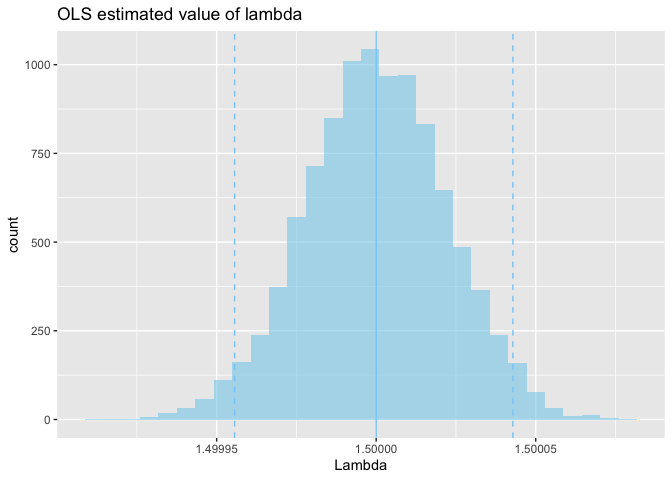
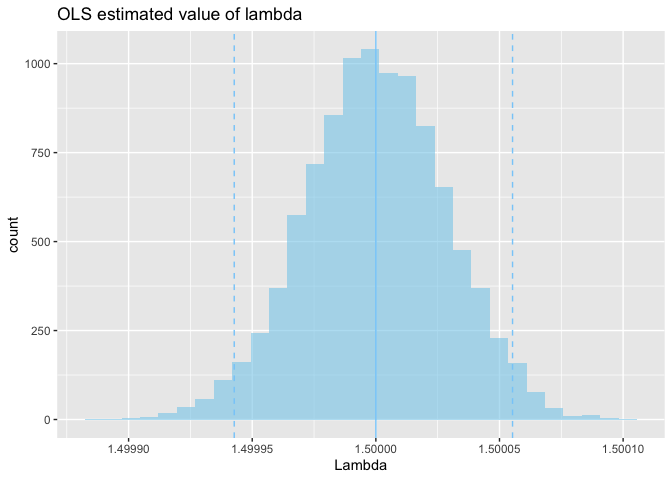
change firm number

diff --git a/Demand_Estimation.md b/Demand_Estimation.md
@@ -1,7 +1,7 @@
 Demand Estimation: Cournot Model
 ================
 Tomoya Ozawa
-2021/05/13
+2021/05/14
 
 ## Data Generating Process
 
@@ -48,7 +48,7 @@ p_t = \\frac{1}{N_t + 1}\\left( \\frac{\\kappa + \\mu X_t + \\epsilon_t}{\\lambd
 ``` r
 set.seed(123)
 t <- 120
-N <- 30
+N <- 3
 
 # Exogenous variables
 X <- runif(t, min = 300, max = 600)
@@ -84,13 +84,13 @@ df <- data.frame(time = 1:t,
 head(df)
 ```
 
-    ##   time quantity    price     cost        X        W
-    ## 1    1 1521.383 276.1063 242.2978 386.2733 49.43680
-    ## 2    2 2305.216 247.1781 195.9511 536.4915 39.59462
-    ## 3    3 1732.628 252.6214 214.1186 422.6931 39.23160
-    ## 4    4 2480.397 229.7120 174.5921 564.9052 36.59303
-    ## 5    5 2537.604 263.0240 206.6328 582.1402 41.08467
-    ## 6    6 1050.320 342.9969 319.6565 313.6669 59.52658
+    ##   time  quantity    price     cost        X        W
+    ## 1    1 1179.0720 504.3138 242.2978 386.2733 49.43680
+    ## 2    2 1786.5422 592.9605 195.9511 536.4915 39.59462
+    ## 3    3 1342.7864 512.5156 214.1186 422.6931 39.23160
+    ## 4    4 1922.3078 601.7716 174.5921 564.9052 36.59303
+    ## 5    5 1966.6427 643.6645 206.6328 582.1402 41.08467
+    ## 6    6  813.9979 500.5449 319.6565 313.6669 59.52658
 
 ``` r
 df_param <- data.frame(true = c(kappa, lambda, mu, xi,omega))
@@ -120,19 +120,19 @@ summary(out_ols)
     ## 
     ## Residuals:
     ##     Min      1Q  Median      3Q     Max 
-    ## -19.601  -7.129  -1.364   6.021  32.933 
+    ## -19.690  -7.115  -1.395   5.877  33.106 
     ## 
     ## Coefficients:
     ##             Estimate Std. Error t value Pr(>|t|)    
-    ## (Intercept) -0.04492    7.28429  -0.006    0.995    
-    ## price       -1.49894    0.02231 -67.176   <2e-16 ***
-    ## X            5.00551    0.01065 469.917   <2e-16 ***
+    ## (Intercept) -2.77300    7.27035  -0.381    0.704    
+    ## price       -1.48413    0.02872 -51.680   <2e-16 ***
+    ## X            4.99292    0.02521 198.066   <2e-16 ***
     ## ---
     ## Signif. codes:  0 '***' 0.001 '**' 0.01 '*' 0.05 '.' 0.1 ' ' 1
     ## 
-    ## Residual standard error: 9.907 on 117 degrees of freedom
-    ## Multiple R-squared:  0.9995, Adjusted R-squared:  0.9995 
-    ## F-statistic: 1.104e+05 on 2 and 117 DF,  p-value: < 2.2e-16
+    ## Residual standard error: 9.894 on 117 degrees of freedom
+    ## Multiple R-squared:  0.9991, Adjusted R-squared:  0.9991 
+    ## F-statistic: 6.649e+04 on 2 and 117 DF,  p-value: < 2.2e-16
 
 ``` r
 cost_ols <- ((N + 1)*df$price)/N - (out_ols$coefficients[1] + out_ols$coefficients[3]*df$X)/(-out_ols$coefficients[2]*N)
@@ -148,18 +148,18 @@ summary(out_cost_ols)
     ## 
     ## Residuals:
     ##      Min       1Q   Median       3Q      Max 
-    ## -22.9223  -5.9707   0.1905   6.9518  22.4246 
+    ## -22.3412  -7.1373   0.8252   6.8454  21.0750 
     ## 
     ## Coefficients:
     ##             Estimate Std. Error t value Pr(>|t|)    
-    ## (Intercept)  -7.1847     5.4383  -1.321    0.189    
-    ## W             5.2455     0.1194  43.935   <2e-16 ***
+    ## (Intercept) -11.3698     5.4530  -2.085   0.0392 *  
+    ## W             5.2629     0.1197  43.962   <2e-16 ***
     ## ---
     ## Signif. codes:  0 '***' 0.001 '**' 0.01 '*' 0.05 '.' 0.1 ' ' 1
     ## 
-    ## Residual standard error: 10.19 on 118 degrees of freedom
-    ## Multiple R-squared:  0.9424, Adjusted R-squared:  0.9419 
-    ## F-statistic:  1930 on 1 and 118 DF,  p-value: < 2.2e-16
+    ## Residual standard error: 10.22 on 118 degrees of freedom
+    ## Multiple R-squared:  0.9425, Adjusted R-squared:  0.942 
+    ## F-statistic:  1933 on 1 and 118 DF,  p-value: < 2.2e-16
 
 ### IV
 
@@ -175,19 +175,19 @@ summary(out_first)
     ## 
     ## Residuals:
     ##      Min       1Q   Median       3Q      Max 
-    ## -22.6719  -6.5736   0.2876   6.7779  21.4697 
+    ## -16.5140  -5.2438   0.1417   5.7305  15.4698 
     ## 
     ## Coefficients:
     ##             Estimate Std. Error t value Pr(>|t|)    
-    ## (Intercept) -2.08689    7.41175  -0.282    0.779    
-    ## W            5.06739    0.11600  43.684  < 2e-16 ***
-    ## X            0.09787    0.01056   9.268 1.16e-15 ***
+    ## (Intercept) -1.92315    5.70591  -0.337    0.737    
+    ## W            3.93421    0.08930  44.054   <2e-16 ***
+    ## X            0.82674    0.00813 101.694   <2e-16 ***
     ## ---
     ## Signif. codes:  0 '***' 0.001 '**' 0.01 '*' 0.05 '.' 0.1 ' ' 1
     ## 
-    ## Residual standard error: 9.866 on 117 degrees of freedom
-    ## Multiple R-squared:  0.9431, Adjusted R-squared:  0.9422 
-    ## F-statistic: 970.3 on 2 and 117 DF,  p-value: < 2.2e-16
+    ## Residual standard error: 7.595 on 117 degrees of freedom
+    ## Multiple R-squared:   0.99,  Adjusted R-squared:  0.9899 
+    ## F-statistic:  5811 on 2 and 117 DF,  p-value: < 2.2e-16
 
 ``` r
 library(AER)
@@ -201,19 +201,19 @@ summary(out_iv)
     ## 
     ## Residuals:
     ##     Min      1Q  Median      3Q     Max 
-    ## -19.699  -7.167  -1.298   6.023  33.115 
+    ## -19.664  -7.154  -1.295   6.012  33.056 
     ## 
     ## Coefficients:
     ##             Estimate Std. Error t value Pr(>|t|)    
-    ## (Intercept) -2.01951    7.41079  -0.273    0.786    
-    ## price       -1.49080    0.02300 -64.815   <2e-16 ***
-    ## X            5.00503    0.01066 469.379   <2e-16 ***
+    ## (Intercept) -2.01592    7.39088  -0.273    0.786    
+    ## price       -1.48816    0.02957 -50.321   <2e-16 ***
+    ## X            4.99613    0.02583 193.427   <2e-16 ***
     ## ---
     ## Signif. codes:  0 '***' 0.001 '**' 0.01 '*' 0.05 '.' 0.1 ' ' 1
     ## 
-    ## Residual standard error: 9.913 on 117 degrees of freedom
-    ## Multiple R-Squared: 0.9995,  Adjusted R-squared: 0.9995 
-    ## Wald test: 1.102e+05 on 2 and 117 DF,  p-value: < 2.2e-16
+    ## Residual standard error: 9.895 on 117 degrees of freedom
+    ## Multiple R-Squared: 0.9991,  Adjusted R-squared: 0.9991 
+    ## Wald test: 6.641e+04 on 2 and 117 DF,  p-value: < 2.2e-16
 
 ``` r
 cost_iv <- ((N + 1)*df$price)/N - (out_iv$coefficients[1] + out_iv$coefficients[3]*df$X)/(-out_iv$coefficients[2]*N)
@@ -228,19 +228,19 @@ summary(out_cost_iv)
     ## lm(formula = cost_iv ~ W, data = df)
     ## 
     ## Residuals:
-    ##      Min       1Q   Median       3Q      Max 
-    ## -22.9301  -5.9409   0.1875   7.0017  22.4386 
+    ##     Min      1Q  Median      3Q     Max 
+    ## -22.238  -7.204   1.052   6.959  21.021 
     ## 
     ## Coefficients:
     ##             Estimate Std. Error t value Pr(>|t|)    
-    ## (Intercept)  -7.4354     5.4407  -1.367    0.174    
-    ## W             5.2461     0.1194  43.920   <2e-16 ***
+    ## (Intercept) -10.3976     5.4369  -1.912   0.0582 .  
+    ## W             5.2608     0.1194  44.074   <2e-16 ***
     ## ---
     ## Signif. codes:  0 '***' 0.001 '**' 0.01 '*' 0.05 '.' 0.1 ' ' 1
     ## 
     ## Residual standard error: 10.19 on 118 degrees of freedom
-    ## Multiple R-squared:  0.9424, Adjusted R-squared:  0.9419 
-    ## F-statistic:  1929 on 1 and 118 DF,  p-value: < 2.2e-16
+    ## Multiple R-squared:  0.9427, Adjusted R-squared:  0.9422 
+    ## F-statistic:  1943 on 1 and 118 DF,  p-value: < 2.2e-16
 
 ## Comparison of parameters
 
@@ -256,12 +256,12 @@ df_param$iv <- param_iv
 df_param
 ```
 
-    ##        true         ols        iv
-    ## kappa   3.0 -0.04491832 -2.019510
-    ## lambda  1.5  1.49894387  1.490804
-    ## mu      5.0  5.00551188  5.005025
-    ## xi      3.0 -7.18474299 -7.435398
-    ## omega   5.0  5.24553564  5.246077
+    ##        true        ols         iv
+    ## kappa   3.0  -2.773005  -2.015922
+    ## lambda  1.5   1.484130   1.488156
+    ## mu      5.0   4.992924   4.996133
+    ## xi      3.0 -11.369795 -10.397596
+    ## omega   5.0   5.262935   5.260835
 
 ## Create simulated data sets
 
@@ -318,19 +318,19 @@ print(summary(list_out_ols[[1]]))
     ## 
     ## Residuals:
     ##     Min      1Q  Median      3Q     Max 
-    ## -19.581  -7.203  -1.236   6.014  33.094 
+    ## -19.581  -7.203  -1.236   6.013  33.094 
     ## 
     ## Coefficients:
     ##               Estimate Std. Error    t value Pr(>|t|)    
-    ## (Intercept) -2.037e+00  7.438e+00     -0.274    0.785    
-    ## price       -1.500e+00  2.406e-05 -62352.212   <2e-16 ***
-    ## X            5.000e+00  1.070e-05 467345.618   <2e-16 ***
+    ## (Intercept) -2.040e+00  7.438e+00     -0.274    0.784    
+    ## price       -1.500e+00  3.104e-05 -48323.054   <2e-16 ***
+    ## X            5.000e+00  2.713e-05 184285.499   <2e-16 ***
     ## ---
     ## Signif. codes:  0 '***' 0.001 '**' 0.01 '*' 0.05 '.' 0.1 ' ' 1
     ## 
     ## Residual standard error: 9.901 on 117 degrees of freedom
     ## Multiple R-squared:      1,  Adjusted R-squared:      1 
-    ## F-statistic: 1.093e+11 on 2 and 117 DF,  p-value: < 2.2e-16
+    ## F-statistic: 6.564e+10 on 2 and 117 DF,  p-value: < 2.2e-16
 
 ``` r
 list_df_ols <- map2(list_df, list_out_ols, function(.x, .y){
@@ -352,19 +352,19 @@ summary(list_out_cost_ols[[1]])
     ## lm(formula = cost_ols ~ W, data = .x)
     ## 
     ## Residuals:
-    ##      Min       1Q   Median       3Q      Max 
-    ## -22.9304  -5.9398   0.1874   7.0037  22.4392 
+    ##     Min      1Q  Median      3Q     Max 
+    ## -22.241  -7.226   1.028   6.960  21.026 
     ## 
     ## Coefficients:
     ##               Estimate Std. Error   t value Pr(>|t|)    
-    ## (Intercept) -7.4469617  5.4407907    -1.369    0.174    
-    ## W            5.0002461  0.0001194 41860.849   <2e-16 ***
+    ## (Intercept) -1.052e+01  5.439e+00    -1.934   0.0555 .  
+    ## W            5.000e+00  1.194e-04 41878.451   <2e-16 ***
     ## ---
     ## Signif. codes:  0 '***' 0.001 '**' 0.01 '*' 0.05 '.' 0.1 ' ' 1
     ## 
     ## Residual standard error: 10.19 on 118 degrees of freedom
     ## Multiple R-squared:      1,  Adjusted R-squared:      1 
-    ## F-statistic: 1.752e+09 on 1 and 118 DF,  p-value: < 2.2e-16
+    ## F-statistic: 1.754e+09 on 1 and 118 DF,  p-value: < 2.2e-16
 
 ### IV
 
@@ -379,19 +379,19 @@ print(summary(list_out_iv[[1]]))
     ## 
     ## Residuals:
     ##     Min      1Q  Median      3Q     Max 
-    ## -19.581  -7.203  -1.236   6.014  33.094 
+    ## -19.581  -7.203  -1.236   6.013  33.094 
     ## 
     ## Coefficients:
     ##               Estimate Std. Error    t value Pr(>|t|)    
-    ## (Intercept) -2.037e+00  7.438e+00     -0.274    0.785    
-    ## price       -1.500e+00  2.406e-05 -62352.212   <2e-16 ***
-    ## X            5.000e+00  1.070e-05 467345.618   <2e-16 ***
+    ## (Intercept) -2.040e+00  7.438e+00     -0.274    0.784    
+    ## price       -1.500e+00  3.104e-05 -48323.054   <2e-16 ***
+    ## X            5.000e+00  2.713e-05 184285.499   <2e-16 ***
     ## ---
     ## Signif. codes:  0 '***' 0.001 '**' 0.01 '*' 0.05 '.' 0.1 ' ' 1
     ## 
     ## Residual standard error: 9.901 on 117 degrees of freedom
     ## Multiple R-Squared:     1,   Adjusted R-squared:     1 
-    ## Wald test: 1.093e+11 on 2 and 117 DF,  p-value: < 2.2e-16
+    ## Wald test: 6.564e+10 on 2 and 117 DF,  p-value: < 2.2e-16
 
 ``` r
 list_df_iv <- map2(list_df, list_out_iv, function(.x, .y){
@@ -413,19 +413,19 @@ summary(list_out_cost_iv[[1]])
     ## lm(formula = cost_iv ~ W, data = .x)
     ## 
     ## Residuals:
-    ##      Min       1Q   Median       3Q      Max 
-    ## -22.9304  -5.9398   0.1874   7.0037  22.4392 
+    ##     Min      1Q  Median      3Q     Max 
+    ## -22.241  -7.226   1.028   6.960  21.026 
     ## 
     ## Coefficients:
     ##               Estimate Std. Error   t value Pr(>|t|)    
-    ## (Intercept) -7.4469617  5.4407907    -1.369    0.174    
-    ## W            5.0002461  0.0001194 41860.849   <2e-16 ***
+    ## (Intercept) -1.052e+01  5.439e+00    -1.934   0.0555 .  
+    ## W            5.000e+00  1.194e-04 41878.451   <2e-16 ***
     ## ---
     ## Signif. codes:  0 '***' 0.001 '**' 0.01 '*' 0.05 '.' 0.1 ' ' 1
     ## 
     ## Residual standard error: 10.19 on 118 degrees of freedom
     ## Multiple R-squared:      1,  Adjusted R-squared:      1 
-    ## F-statistic: 1.752e+09 on 1 and 118 DF,  p-value: < 2.2e-16
+    ## F-statistic: 1.754e+09 on 1 and 118 DF,  p-value: < 2.2e-16
 
 ## Comparison of parameters
 
